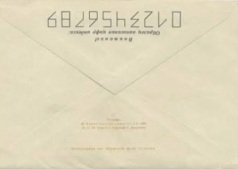
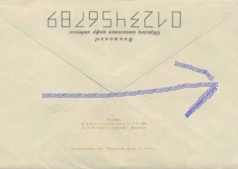
Add arrows to envelope

Changed region(s): [[0.1765, 0.355, 0.9118, 0.7101]]

diff --git a/index.html b/index.html
@@ -902,9 +902,9 @@
 				<button type="button" class="ip_contact_dock__toggle" aria-expanded="true"
 					aria-controls="ip-contact-dock-actions" aria-label="Свернуть">
 					<span class="ip_contact_dock__envelope" aria-hidden="true">
-						<img class="ip_contact_dock__envelope-face" src="static/img/assets/envelope-face.jpg?v=2bcdfde0"
+						<img class="ip_contact_dock__envelope-face" src="static/img/assets/envelope-face.jpg?v=85be701d"
 							alt="" width="190" height="131" decoding="async" fetchpriority="low">
-						<img class="ip_contact_dock__envelope-back" src="static/img/assets/envelope-back.jpg?v=44bdc386"
+						<img class="ip_contact_dock__envelope-back" src="static/img/assets/envelope-back.jpg?v=11c451fe"
 							alt="" width="190" height="135" decoding="async" fetchpriority="low">
 					</span>
 				</button>
